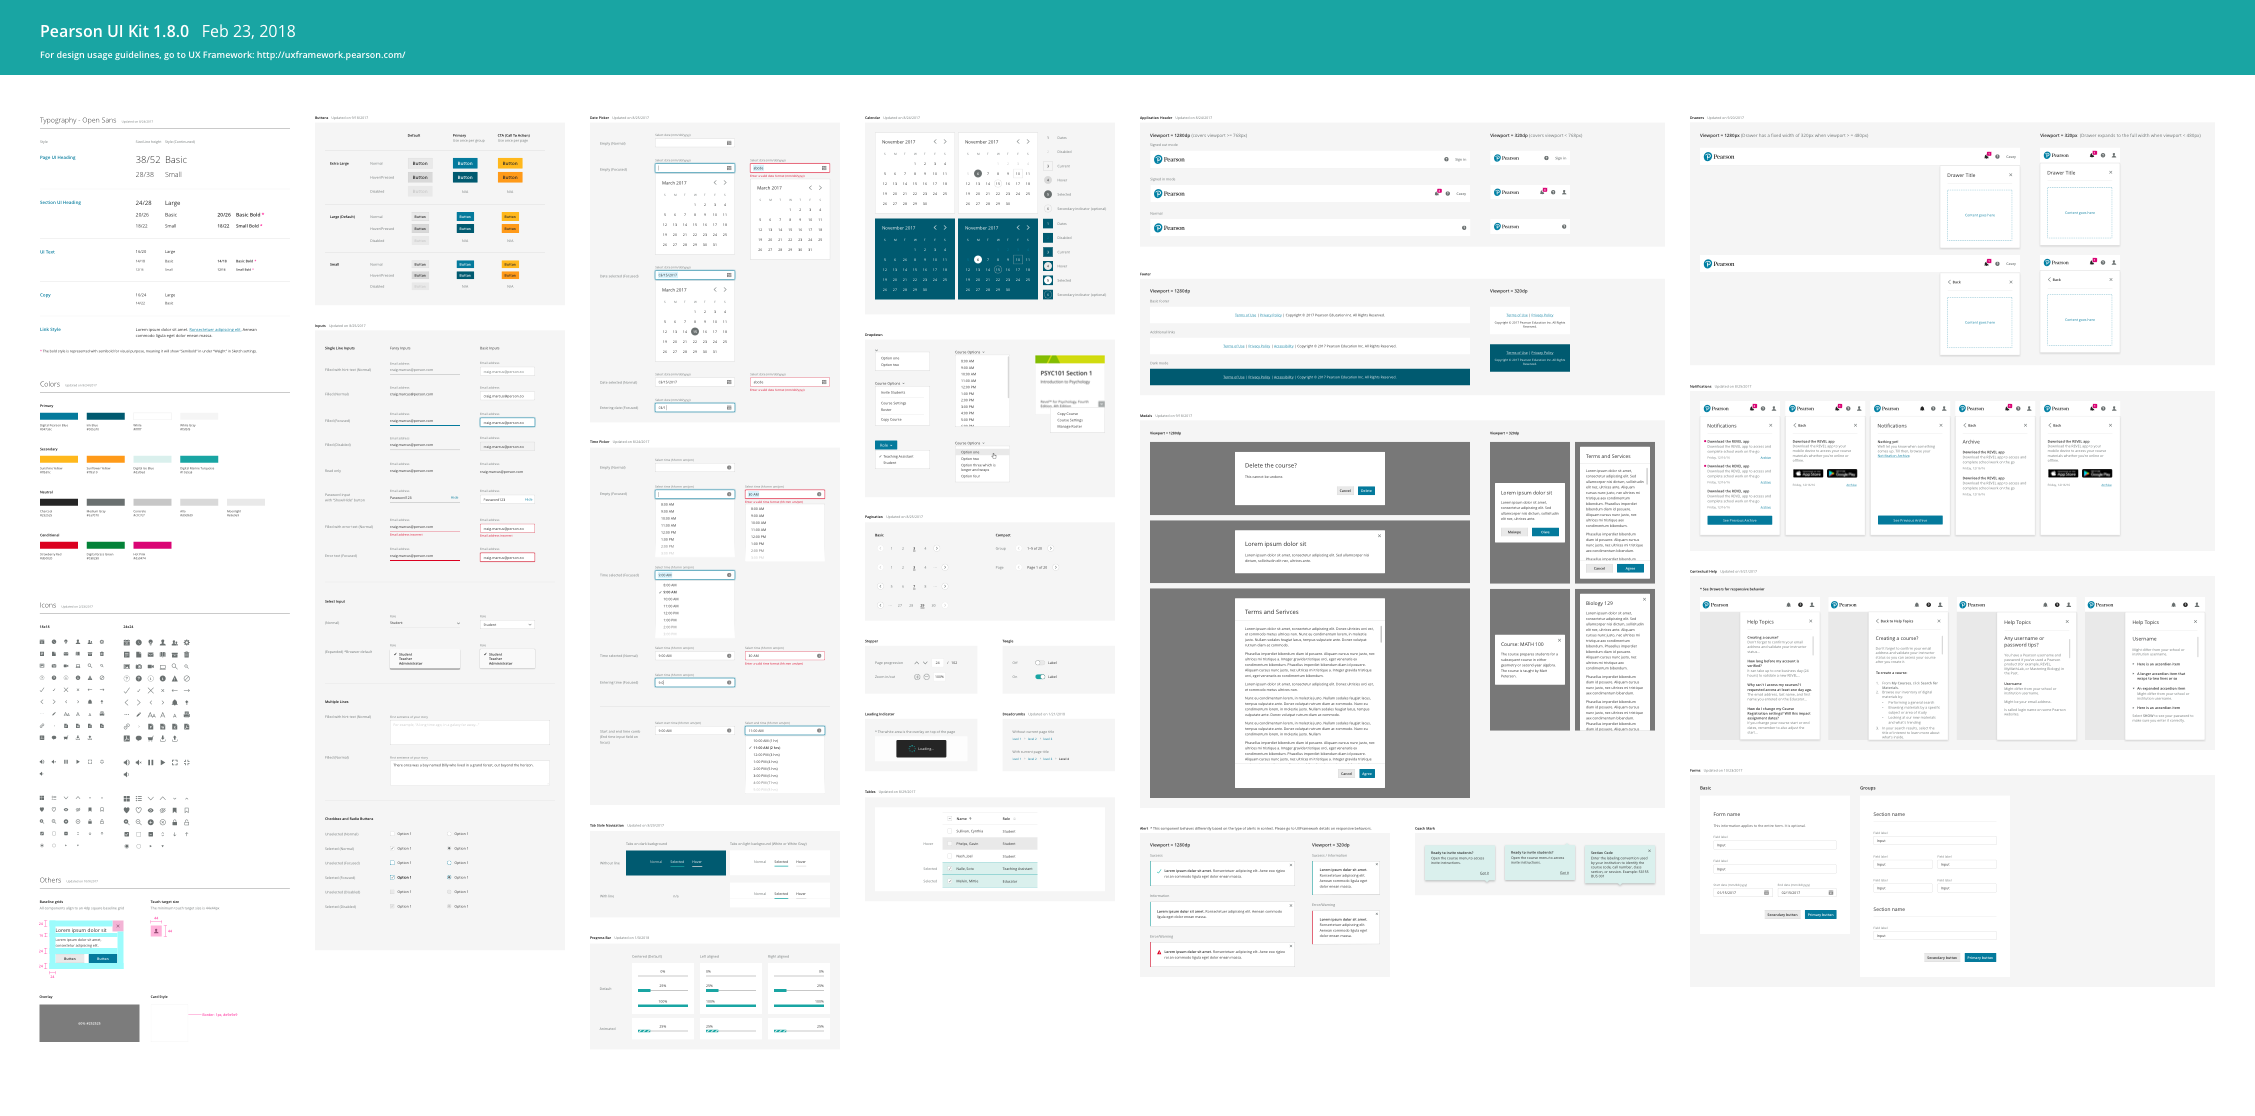
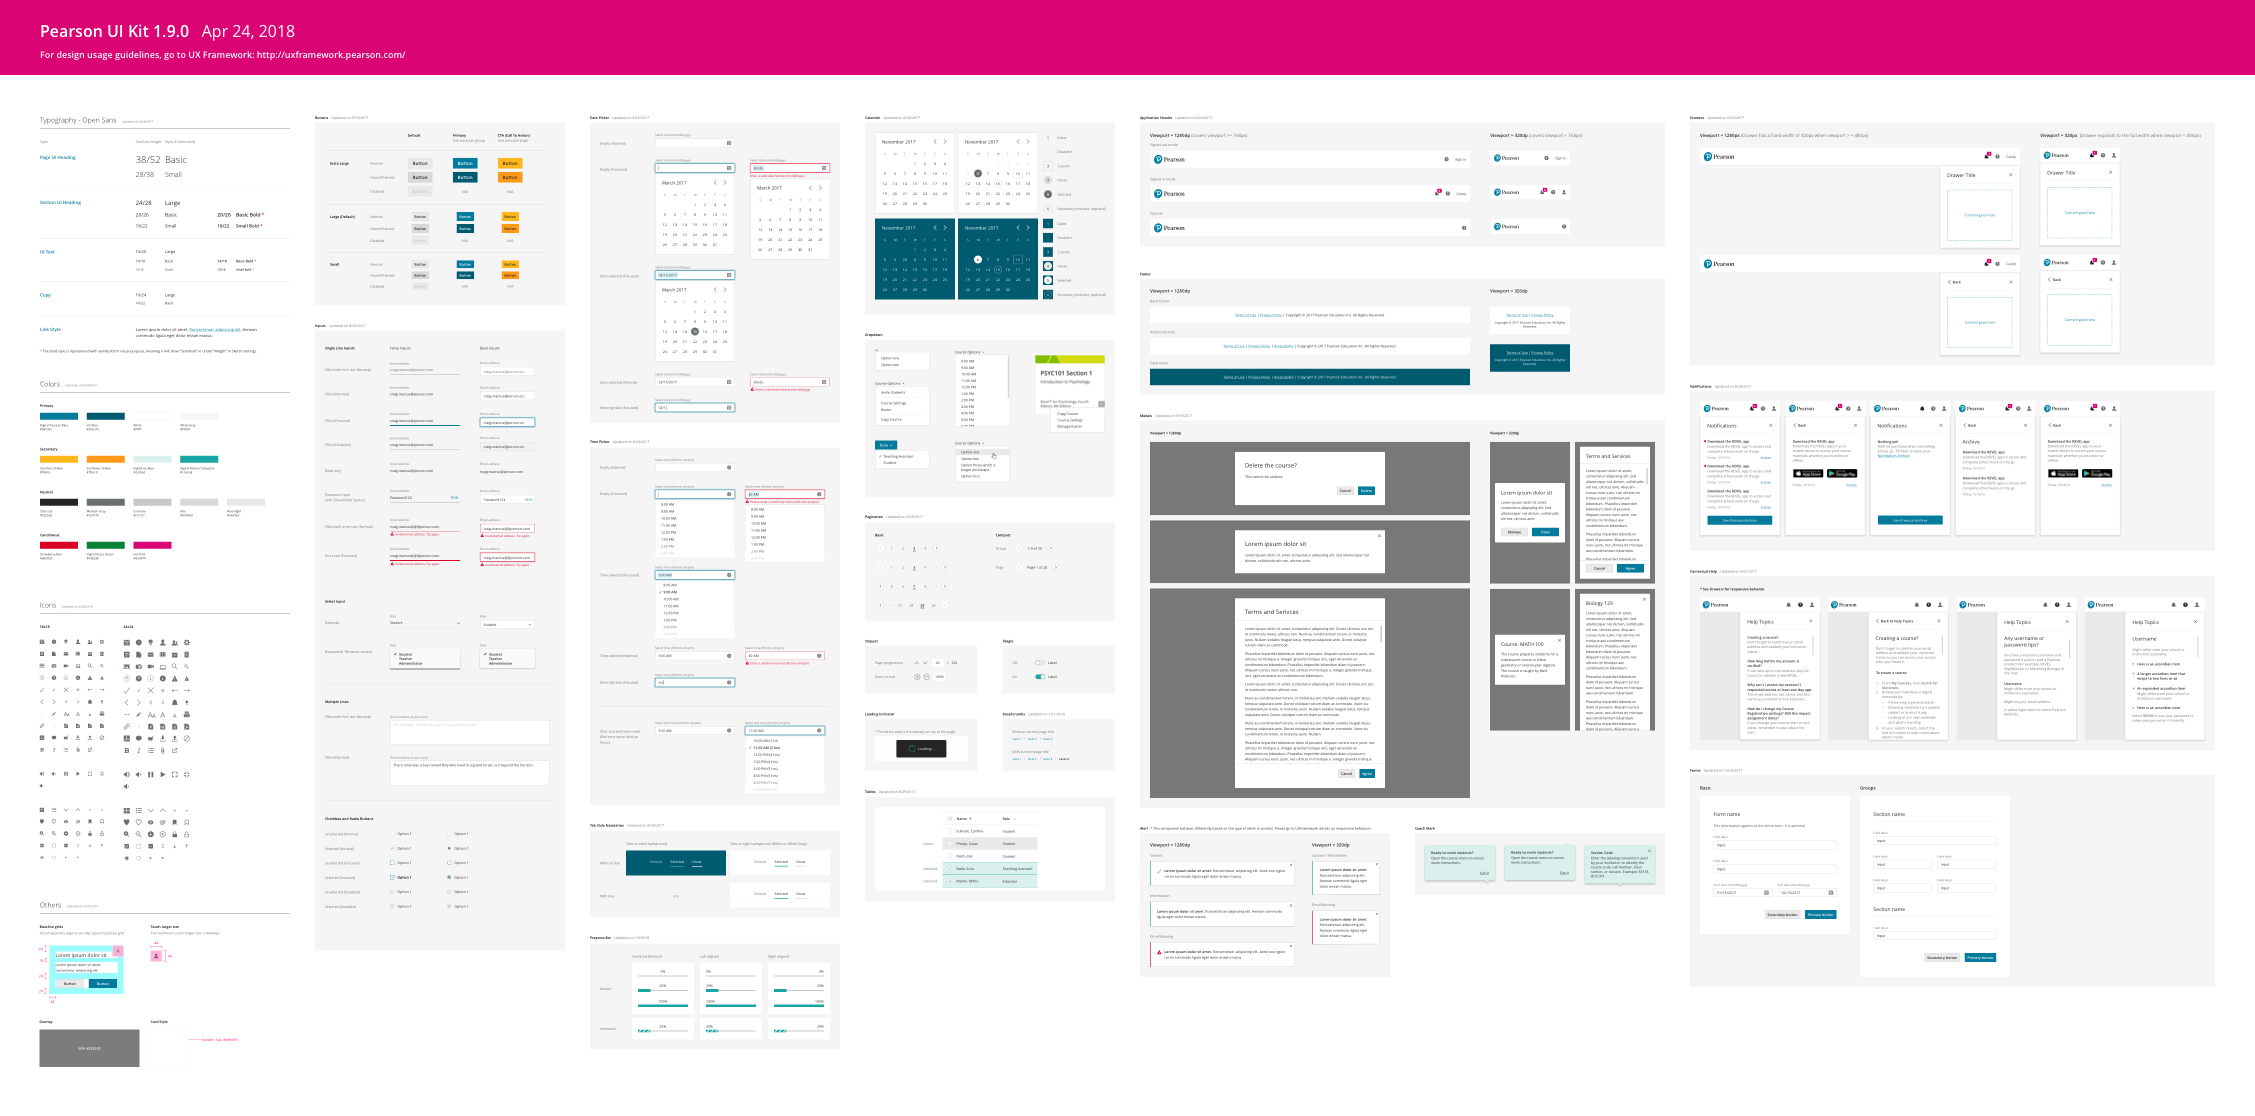
updated image and info on UXF

diff --git a/_layouts/default.html b/_layouts/default.html
@@ -28,9 +28,9 @@
 
 		<div class="main-heroes">
 			<div class="design-hero">
-				<h2>Design UI Kit 1.8.0</h2>
+				<h2>Design UI Kit 1.9.0</h2>
 
-				<p>Updated on Feb. 23, 2018</p>
+				<p>Updated on Apr. 24, 2018</p>
 				<p>Start working in Sketch with ready-made UI components such as colors, buttons, and more! To see how a component works and behaves, please refer to the usage guidelines on this site.</p>
 
 				{% include uikit-download.html %}

diff --git a/_includes/uikit-download.html b/_includes/uikit-download.html
@@ -1,1 +1,1 @@
-<a class="pe-btn__{{include.type | default: 'primary'}}--btn_{{include.btn_size | default: 'large'}}" href="{{site.baseurl}}/UIKit/files/Pearson UI Kit 1.8.0.sketch">Download UI Kit v1.8.0</a>
+<a class="pe-btn__{{include.type | default: 'primary'}}--btn_{{include.btn_size | default: 'large'}}" href="{{site.baseurl}}/UIKit/files/Pearson UI Kit 1.9.0.sketch">Download UI Kit v1.9.0</a>

diff --git a/UIKit/index.md b/UIKit/index.md
@@ -1,5 +1,5 @@
 ---
-title: UI Kit v1.8.0
+title: UI Kit v1.9.0
 layout: article
 section: use
 ---
@@ -7,14 +7,15 @@ section: use
 <!-- HEY, DON'T FORGET UPDATE <includes/uikit-download.html> AND THE HOMEPAGE!!!! -->
 
 <div class="uikit-buttons">
-  {% include uikit-download.html type='cta' btn_size='xlarge' %} <a class="pe-btn--btn_xlarge" href="https://sketch.cloud/s/L49kQ/all/page-1/ui-kit" target="_blank">Preview</a>
+  {% include uikit-download.html type='cta' btn_size='xlarge' %} <a class="pe-btn--btn_xlarge" href="https://sketch.cloud/s/1OZWp/all/page-1/ui-kit" target="_blank">Preview</a>
 </div>
 
 
 
-Feb 23, 2018
+Apr 24, 2018
 
- * Icons: Added "adobe-acrobat", "comment", "download", "upload", "file-excel", "file-pdf", "file-powerpoint", "file-word", "shopping-cart"
+ * Icons: Added "paperclip", "bold", "italic", "number-list", "warning-sm", "link-out" Icons
+ * Input: Enhanced accessibility by adding a warning icon in front of the error messages
 
 
 This Sketch file contains all the components from the UX Framework to help you start designing. It is updated frequently. If you see any discrepancies between the UI Kit and the website, please [let us know so we can fix it]({{site.baseurl}}/contact).
@@ -29,6 +30,11 @@ The components in this file is currently outdated. We are working on getting it 
 {:style="margin-top: 40px;"}
 
 ## Download previous versions
+
+### [v1.8.0](./files/Pearson UI Kit 1.8.0.sketch)
+Feb 23, 2018
+
+* Icons: Added “adobe-acrobat”, “comment”, “download”, “upload”, “file-excel”, “file-pdf”, “file-powerpoint”, “file-word”, “shopping-cart”
 
 ### [v1.7.0](./files/Pearson UI Kit 1.7.0.sketch)
 Jan 21, 2018
